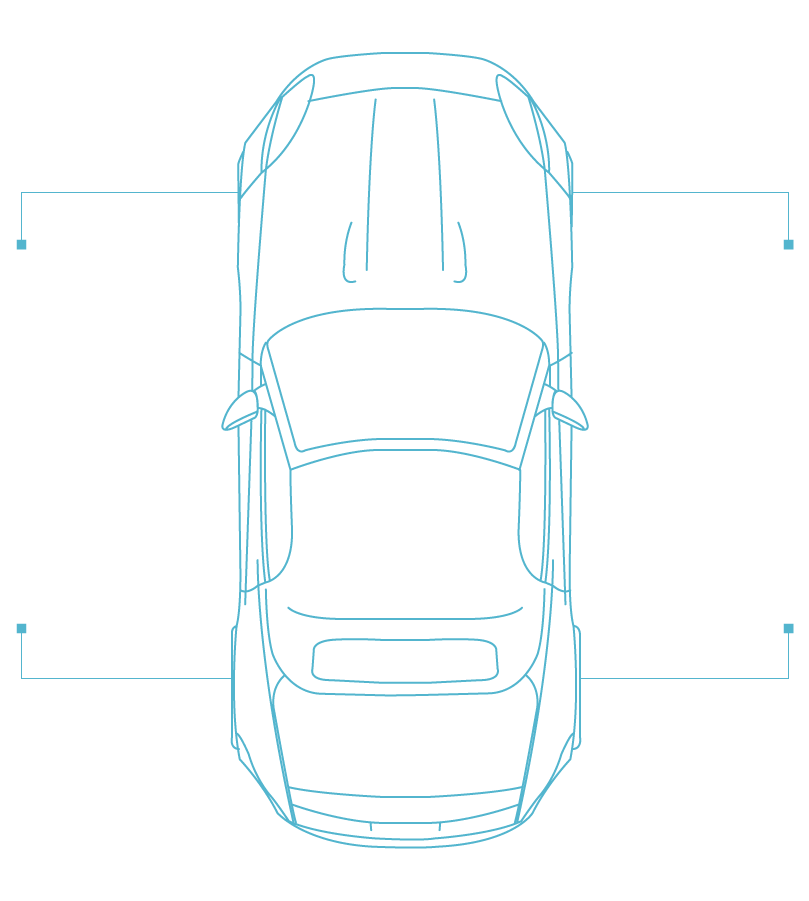
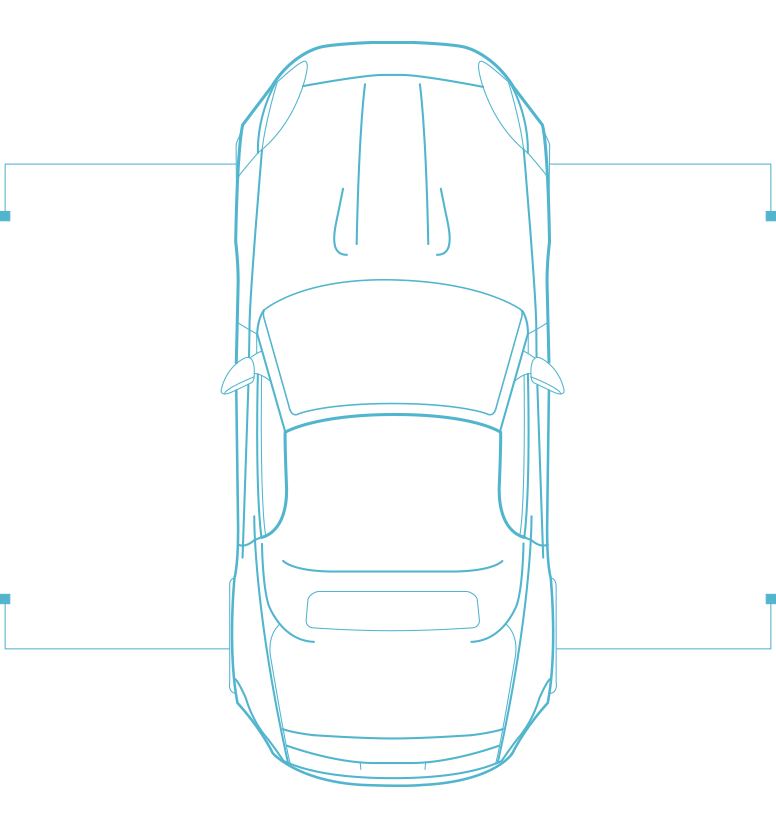
Dashboard: re-worked the 3 images with thicker lines in the areas where they were especially vibrating. So a side-by-side comparison or switch branches. Also put the contents of flex-item into flex to push the buttons to the bottom (otherwise they were reliant on the images being exactly the same he

Changed region(s): [[0.0, 0.0301, 1.0, 0.9639], [0.9588, 0.1807, 1.0, 0.3012], [0.0, 0.2108, 0.0309, 0.2711]]

diff --git a/DNA_Dashboard/css/dashboard.css b/DNA_Dashboard/css/dashboard.css
@@ -225,31 +225,40 @@ li {
 #vehicle-graphic-switches {
 	display: flex;
 	justify-content: center;
+	margin-bottom: 125px;
 }
 
 .rangeRoverVehicle {
 	width: 100%;
-	height: 901px;
-	margin-bottom: 10px;
+	height: 830px;
+	margin-top: 40px;
 	background-image: url('../images/Range_Rover_Outline_Call_Outs.png');
 	background-position: top center;
 	background-repeat: no-repeat;
+	flex: 1 0 auto;
 }
 
 .lr4Vehicle {
 	width: 100%;
-	height: 901px;
-	margin-bottom: 10px;
+	height: 830px;
+	margin-top: 35px;
 	background-image: url('../images/LR4_Outline_Call_Outs.png');
 	background-position: top center;
 	background-repeat: no-repeat;
+	flex: 1 0 auto;
 }
 
 .fTypeVehicle {
 	width: 100%;
-	height: 901px;
-	margin-bottom: 10px;
+	height: 830px;
+	margin-top: 27px;
 	background-image: url('../images/F-Type_Call_Outs.png');
 	background-position: top center;
 	background-repeat: no-repeat;
+	flex: 1 0 auto;
+}
+
+.flex-item {
+	display: flex;
+	flex-direction: column;
 }
